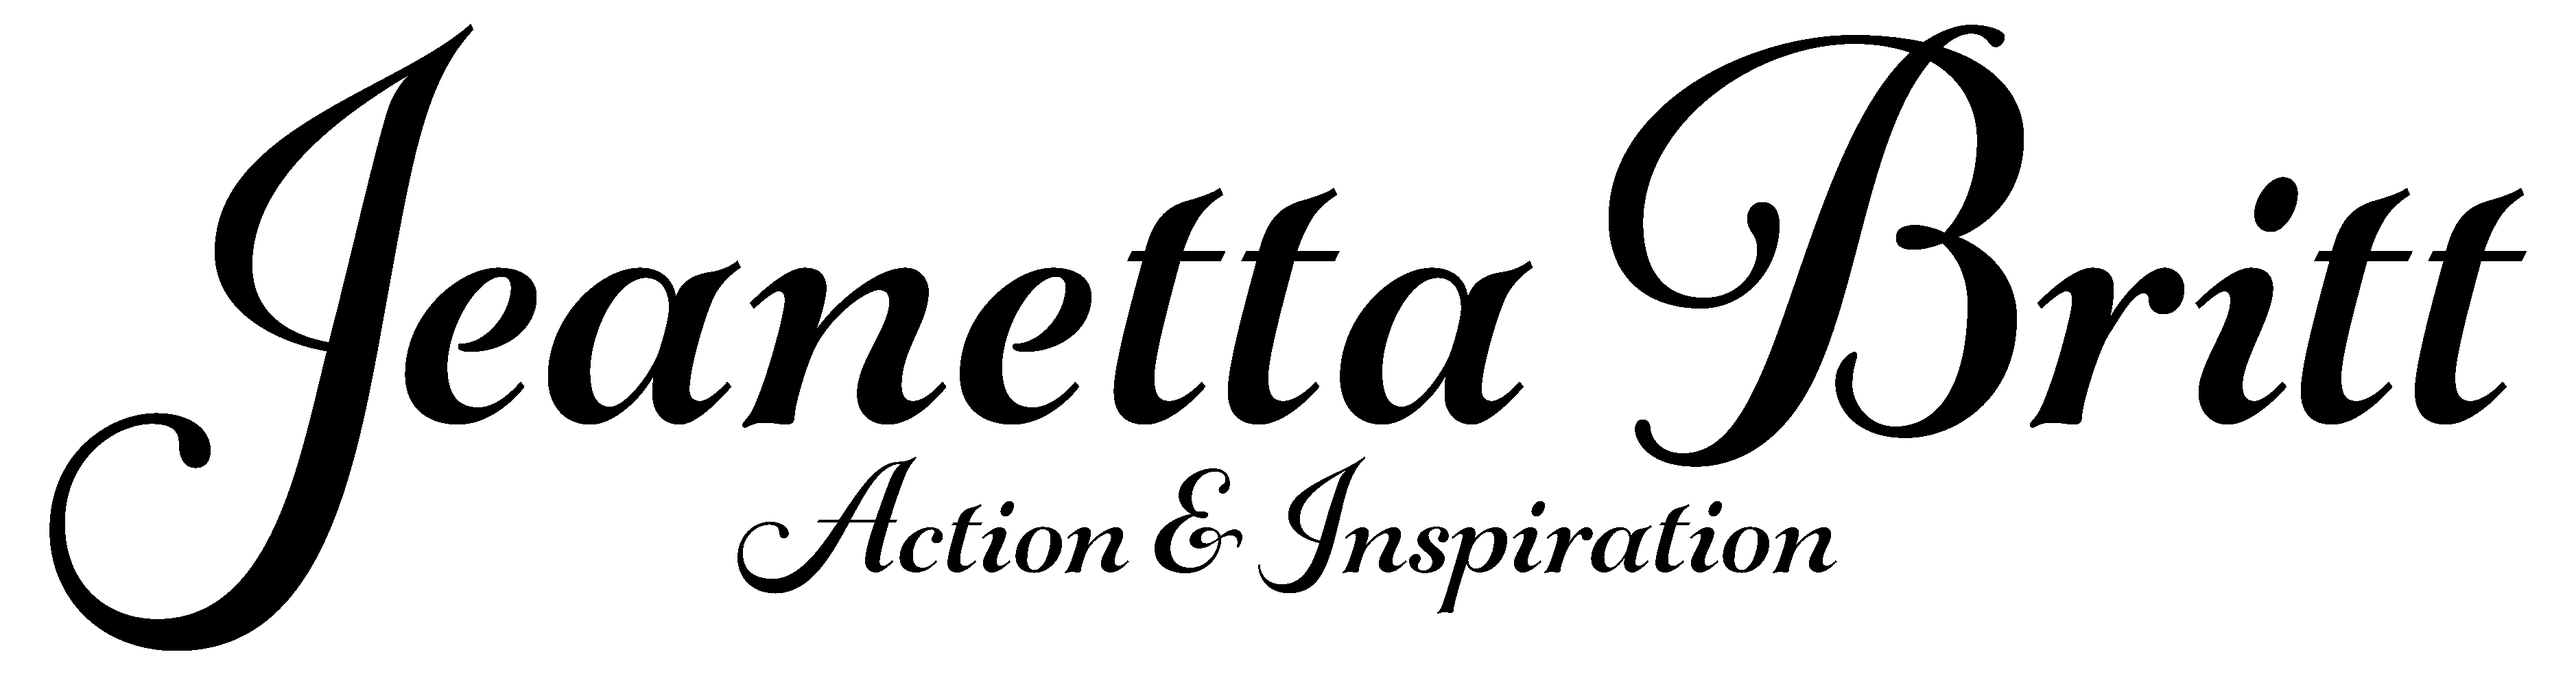
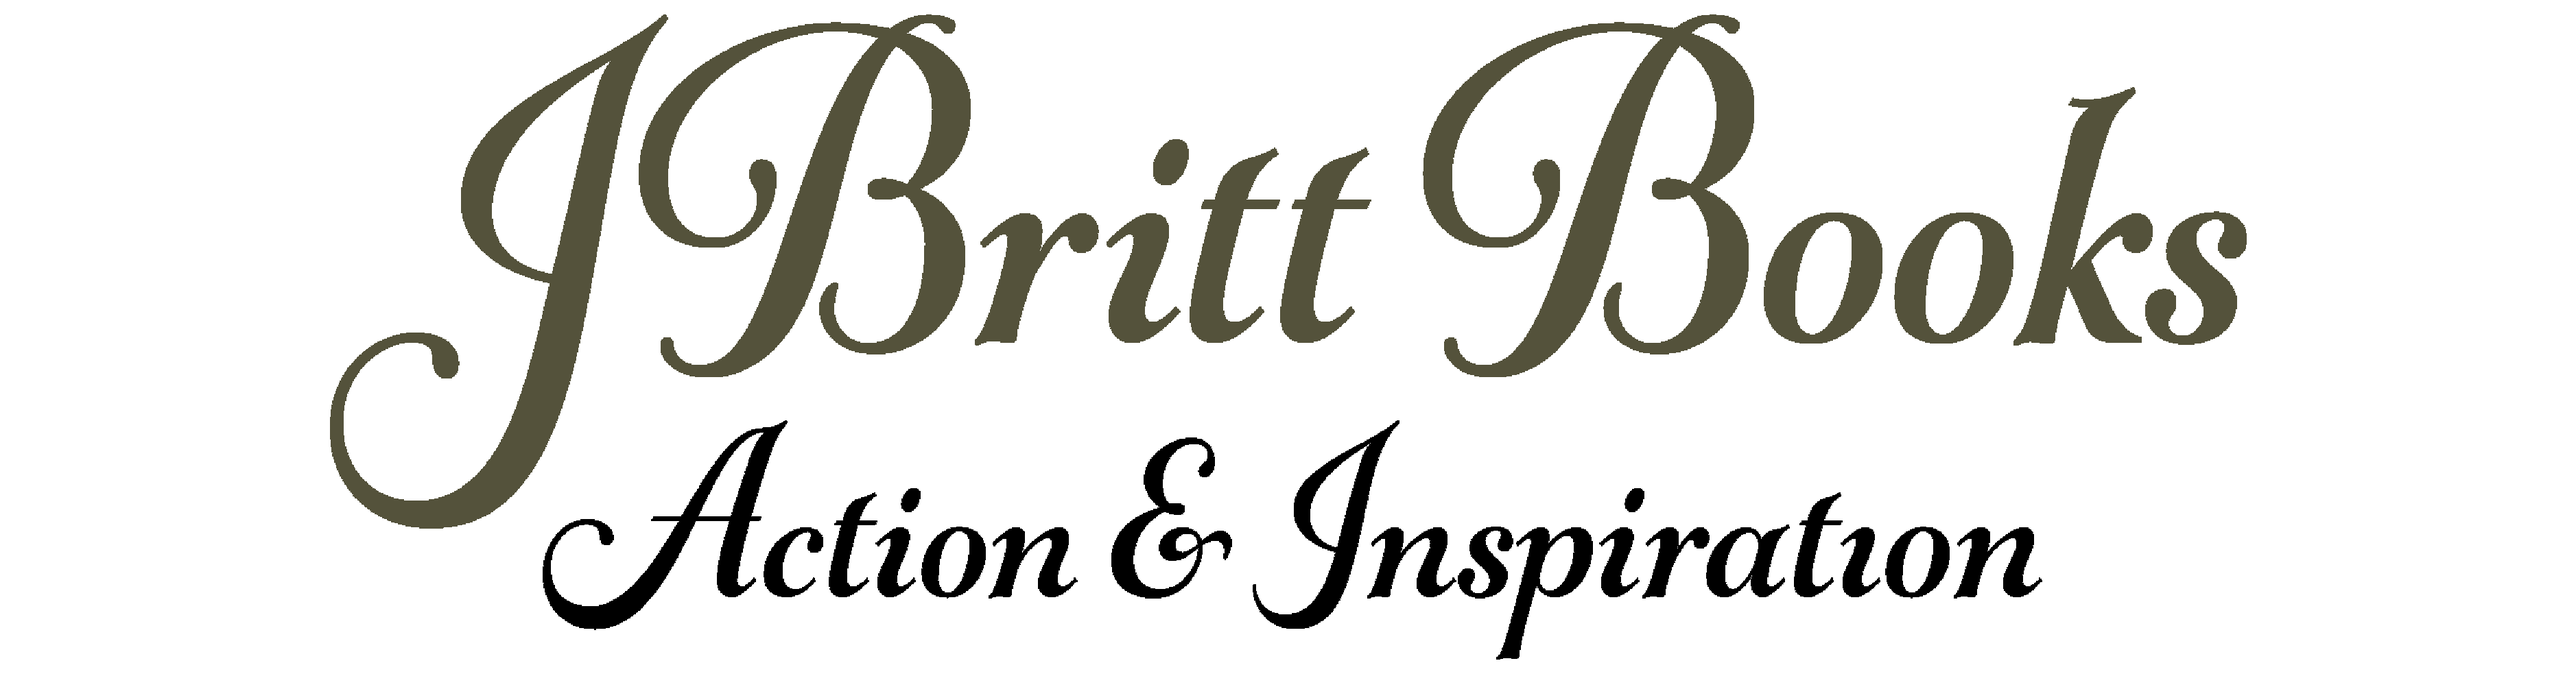
Added styling by request

Changed region(s): [[0.0312, 0.0, 0.9971, 0.9766], [0.0, 0.6714, 0.0312, 0.885]]

diff --git a/js/poetry.js b/js/poetry.js
@@ -15,7 +15,7 @@ let trilogyPreviewBtn = document.getElementById("trilogyPreviewBtn");
 let trilogyBookHeaderOptions = ["Closed Doors", "Love You Can Feel", "Sometimes You Sing Alone"];
 let trilogyBookPoemOptions = [
   "<br>Sometimes doors are closed<br>To save us anguish and precious time<br>And give God room to swing open<br>The doors He has in mind.<br><br>I've learned<br>In this lifetime <br>Don't push on closed doors<br>Too hard<br>The entryway may be blocked<br>By the protective arms of God.",
-  "Did you ever<br>Feel love<br>Love you could share <br>Bubbling all over<br>Landing here and there?<br><br>There once was a time<br>I'd gotten kind of flat <br>The Lord came along <br>And said, \"That's enough of that!<br><br>The love I have for you <br>I want you to<br>Experience <br>Delve into my joy<br>Find your deliverance.\"<br><br>Well, I took Him at His word <br>And dared to enter in Love so sweet<br>It's tasty<br>I found in my Good Friend!",
+  "Did you ever<br>Feel love<br>Love you could share <br>Bubbling all over<br>Landing here and there?<br><br>There once was a time<br>I'd gotten kind of flat <br>The Lord came along <br>And said, \"That's enough of that!<br><br>The love I have for you <br>I want you to<br>Experience <br>Delve into my joy<br>Find your deliverance.\"<br><br>Well, I took Him at His word <br>And dared to enter in <br>Love so sweet<br>It's tasty<br>I found in my Good Friend!",
   "Lone nightingale<br>In a pear tree<br>Moon pulls back the clouds<br>Strains to see. <br><br>The golden throat<br>On the beautiful bird<br>Chirping and warbling<br>A pleasing song to be heard.<br><br>Where is your partner<br>Brave little one<br>As your heart lifts up to heaven<br>Your song to the son?<br><br> Sometimes your companions<br>Sing sad songs<br>Sometimes like the nightingale<br>You're left to sing alone.<br><br> But don't you dare give up<br>Hang your harp upon a tree<br>Keep singing Zion's songs<br>Until we all get on key."
 ];
 

diff --git a/index.html b/index.html
@@ -16,7 +16,7 @@
         <div class="container-fluid bg-image flex-column justify-content-evenly">
             <div id="headerbtn" class="row p-5 btn bg-purple-trans">
                 <div class="col-12 ">
-                    <a href="pages/author.html" alt="author-link"><img class="img-fluid" src="/assets/header-new-light.png" alt="author-text"></a>
+                    <a href="pages/author.html" alt="author-link"><img class="img-fluid" src="/assets/header-new.png" alt="author-text"></a>
                 </div>
             </div>
             <div class="row d-flex justify-content-evenly">
